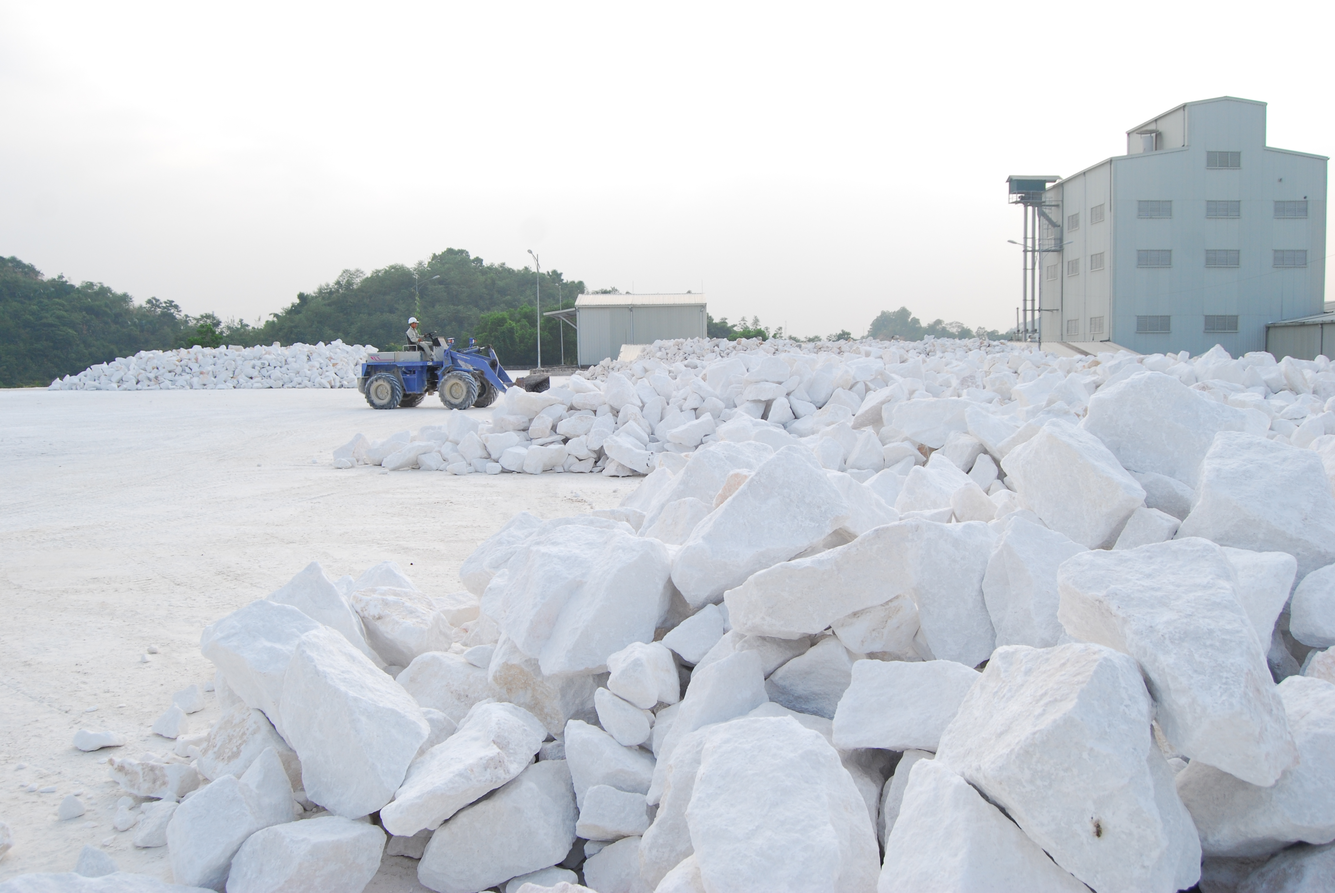
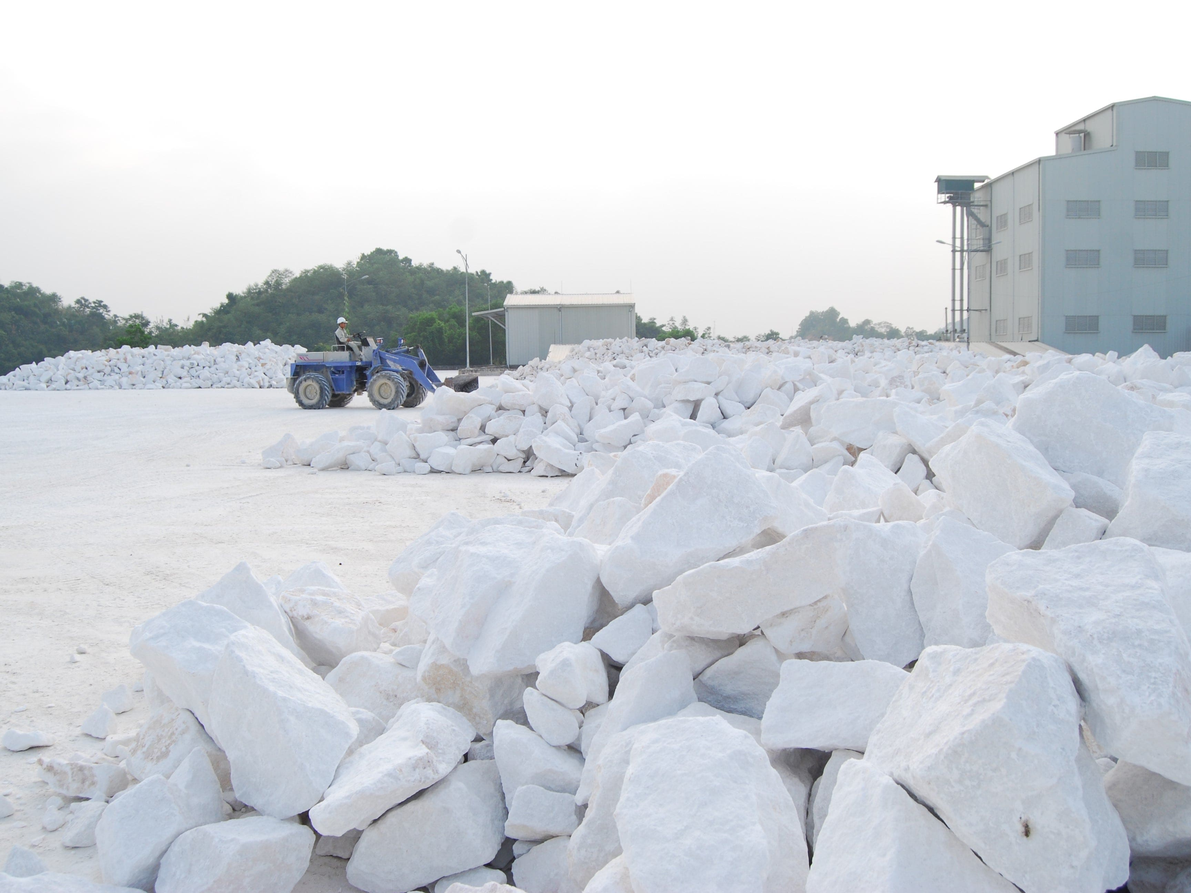
optimizing page

diff --git a/index.html b/index.html
@@ -120,7 +120,7 @@
                 </div>
                 <div class="col-md-6 col-lg-4 mb-4 mb-lg-4">
                     <div class="h-entry">
-                        <img src="images/CaCO3_4_3.jpg" alt="Image" class="img-fluid">
+                        <img src="images/CaCO3.jpg" alt="Image" class="img-fluid">
                         <h2 class="font-size-regular"><a href="CaCO3.html">Calcium Carbonate | CaCO3</a></h2>
                         <p>Lorem ipsum dolor sit amet consectetur adipisicing elit. Natus eligendi nobis ea maiores sapiente veritatis reprehenderit suscipit quaerat rerum voluptatibus a eius.</p>
                     </div>

diff --git a/products.html b/products.html
@@ -90,7 +90,7 @@
                 </div>
                 <div class="col-md-6 col-lg-4 mb-4 mb-lg-4">
                     <div class="h-entry">
-                        <img src="images/CaCO3_4_3.jpg" alt="Image" class="img-fluid">
+                        <img src="images/CaCO3.jpg" alt="Image" class="img-fluid">
                         <h2 class="font-size-regular"><a href="CaCO3.html">Calcium Carbonate | CaCO3</a></h2>
                         <p>Lorem ipsum dolor sit amet consectetur adipisicing elit. Natus eligendi nobis ea maiores sapiente veritatis reprehenderit suscipit quaerat rerum voluptatibus a eius.</p>
                     </div>
